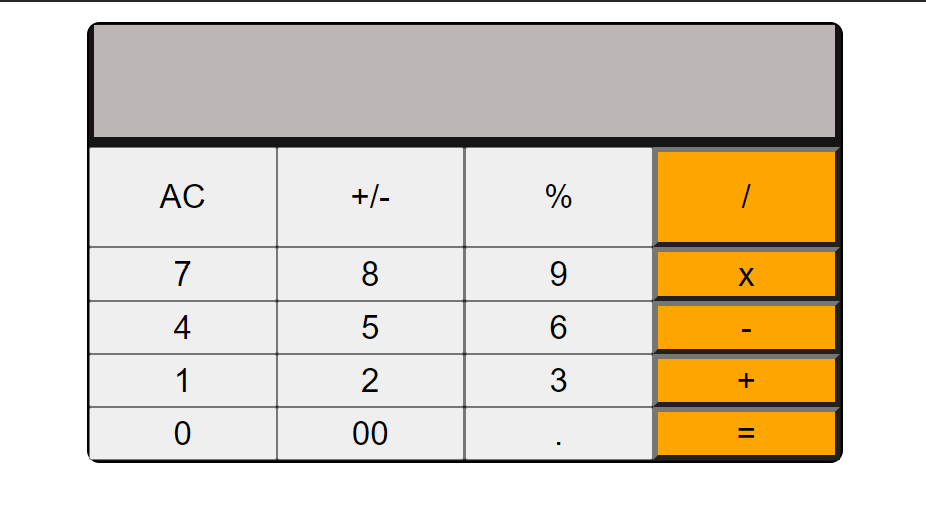
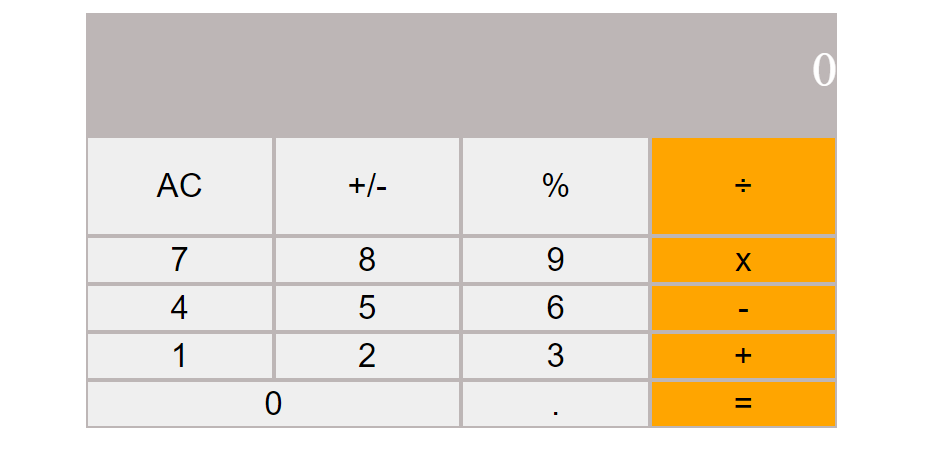
Updates Readme image

diff --git a/math/src/components/Calculator.css b/math/src/components/Calculator.css
@@ -12,13 +12,11 @@
   display: grid;
   grid-template-columns: repeat(4, 1fr);
   grid-template-rows: minmax(40px, auto);
-  
 }
 
 .keys button {
-  border: none;
   outline: none;
-  border: 1px solid rgb(189, 182, 182);;
+  border: 1px solid rgb(189, 182, 182);
 }
 
 .operator {
@@ -42,7 +40,7 @@
 }
 
 .zero {
-  grid-column: 1 / 3
+  grid-column: 1 / 3;
 }
 
 input::-webkit-outer-spin-button,
